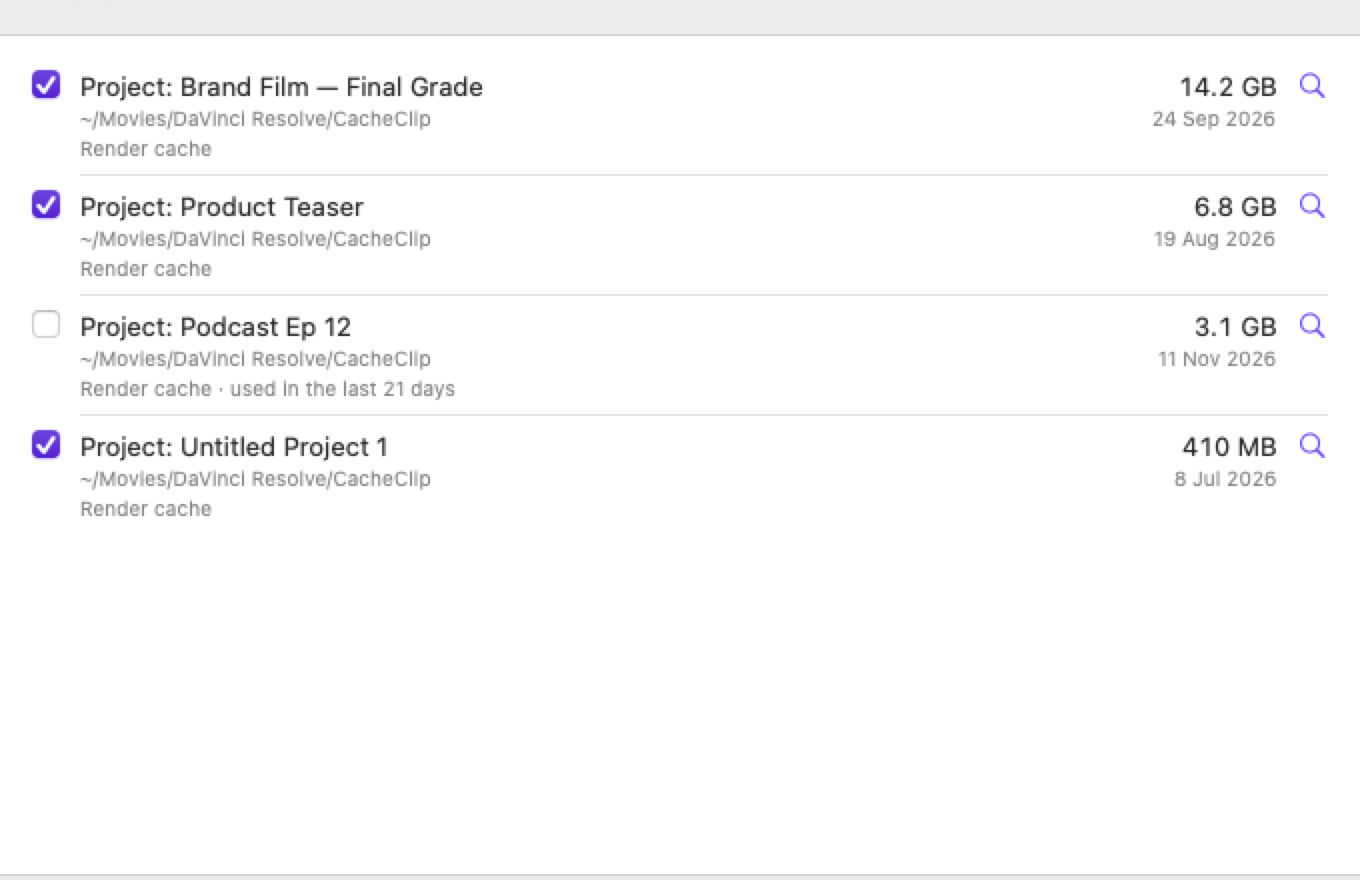
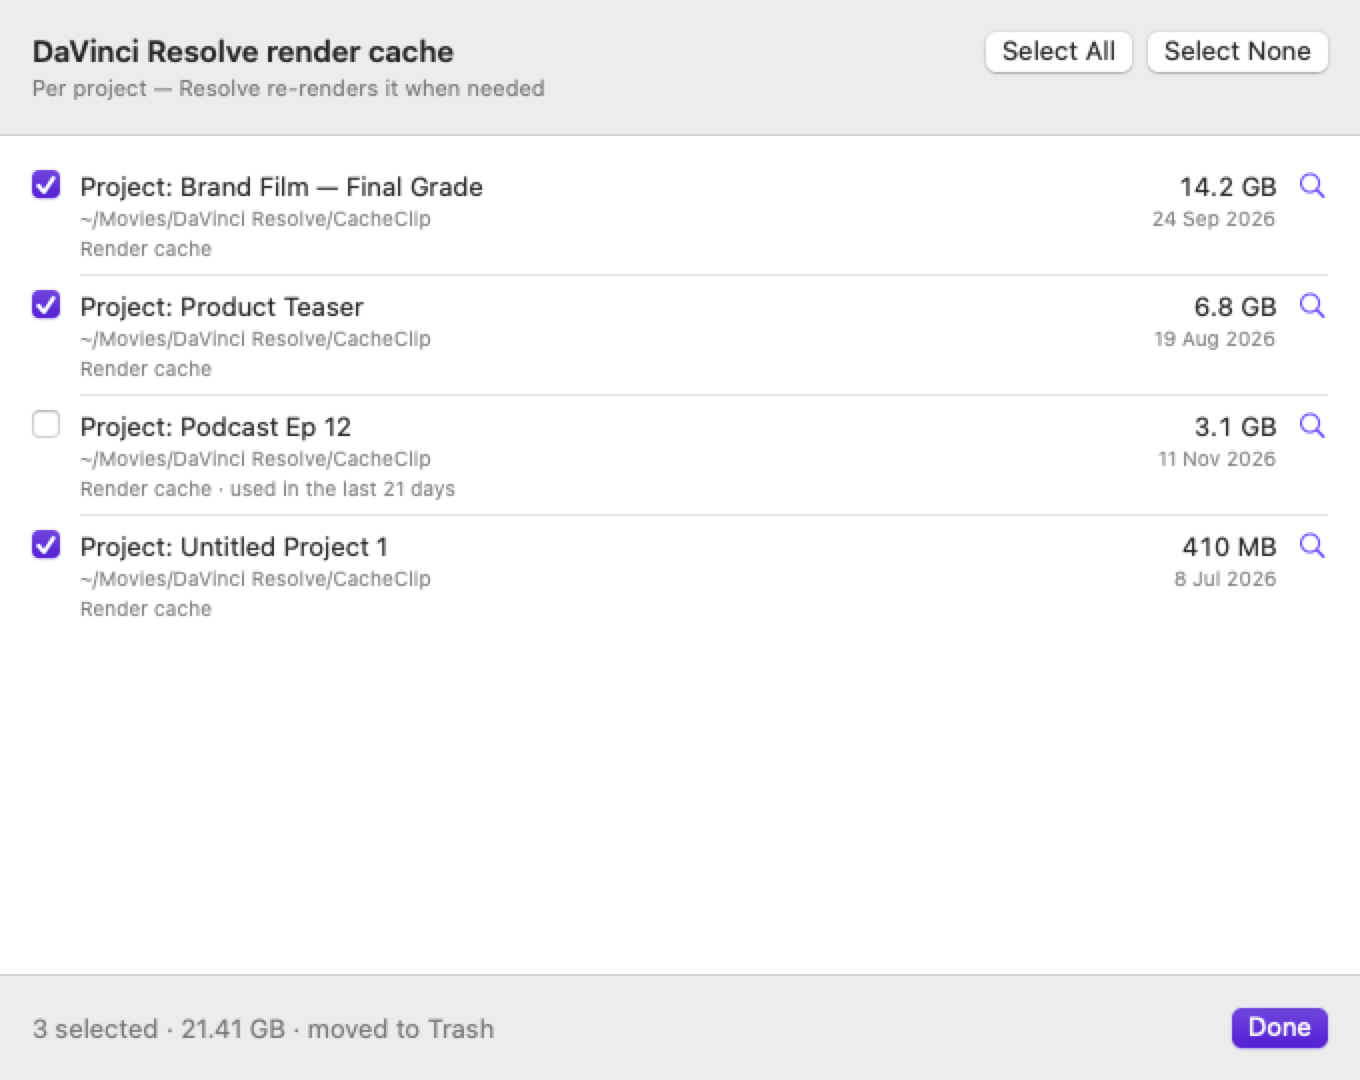
Screenshots: render review windows at full height (title bar was cut off)

diff --git a/Sources/Screens.swift b/Sources/Screens.swift
@@ -107,10 +107,10 @@ func demoGroups() -> [CleanGroup] {
     shot("review-installers" + sfx, CGSize(width: 680, height: 540), dark: dark) { ReviewSheet(group: .constant(group("installers"))) }
     shot("review-premiere" + sfx, CGSize(width: 680, height: 540), dark: dark) { ReviewSheet(group: .constant(group("pr_previews"))) }
     shot("review-old-adobe" + sfx, CGSize(width: 680, height: 540), dark: dark) { ReviewSheet(group: .constant(group("old_adobe"))) }
-    shot("review-resolve" + sfx, CGSize(width: 680, height: 440), dark: dark) { ReviewSheet(group: .constant(group("resolve_cache"))) }
-    shot("review-fcp" + sfx, CGSize(width: 680, height: 440), dark: dark) { ReviewSheet(group: .constant(group("fcp_generated"))) }
-    shot("review-sandboxed" + sfx, CGSize(width: 680, height: 330), dark: dark) { ReviewSheet(group: .constant(group("sandboxed"))) }
-    shot("review-unusual" + sfx, CGSize(width: 680, height: 300), dark: dark) { ReviewSheet(group: .constant(group("unusual"))) }
+    shot("review-resolve" + sfx, CGSize(width: 680, height: 540), dark: dark) { ReviewSheet(group: .constant(group("resolve_cache"))) }
+    shot("review-fcp" + sfx, CGSize(width: 680, height: 540), dark: dark) { ReviewSheet(group: .constant(group("fcp_generated"))) }
+    shot("review-sandboxed" + sfx, CGSize(width: 680, height: 540), dark: dark) { ReviewSheet(group: .constant(group("sandboxed"))) }
+    shot("review-unusual" + sfx, CGSize(width: 680, height: 540), dark: dark) { ReviewSheet(group: .constant(group("unusual"))) }
     shot("settings" + sfx, CGSize(width: 580, height: 560), dark: dark) { SettingsSheet(prefs: prefs) {} }
     shot("scanning" + sfx, main, dark: dark) { ContentView(model: model(.scanning)) }
     shot("done" + sfx, main, dark: dark) {
